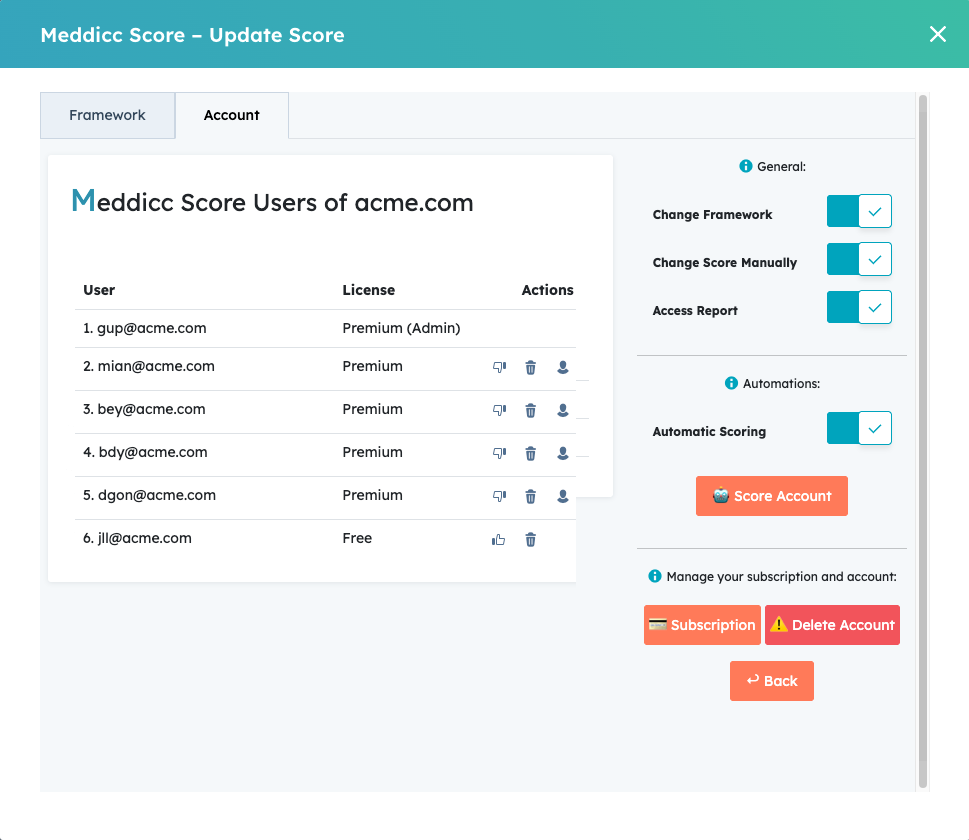
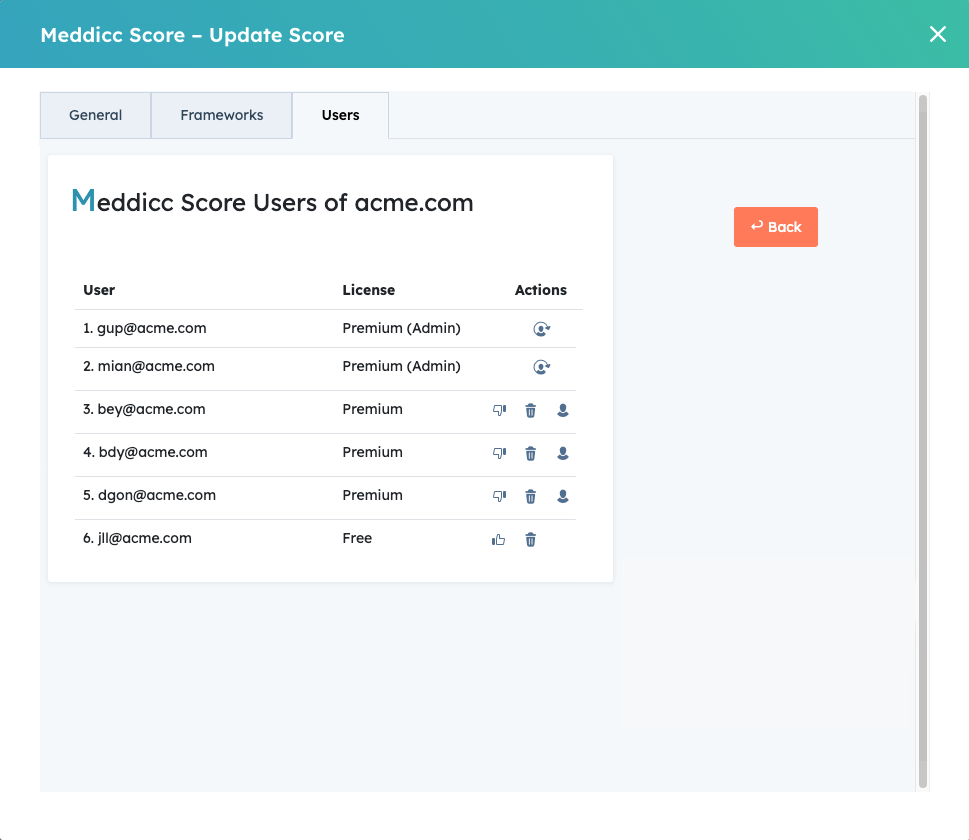
Adding daily AI post

diff --git a/_layouts/landing.html b/_layouts/landing.html
@@ -321,9 +321,10 @@
           <div class="collapse" id="collapseExample2">
             <p class="my-2 mb-lg-0 text-justify">
               Meddicc Score retrieves the last 100 Deal engagements (Emails, Meetings, Calls, Notes...) recorded in HubSpot and uses a AI model for responding to the Framework (e.g., MEDDICC) Questions.
-              <br>These responses pre-fill the form but they can be also manually updated later by the user .
-              <br>The tool uses a high-intelligence LLM model model trained for fast, complex tasks. The prompt and parameters are tuned to provide more focused and deterministic responses.
-              <br>The data you provided is NOT used for training the model. <a href="https://platform.openai.com/docs/models#how-we-use-your-data">Please refer to the AI model provider policies.</a>
+              <br>These responses pre-fill the form but they can be also manually updated later by the user.
+              <br>The tool uses a high-intelligence LLM model model trained for fast, complex tasks. The prompt and parameters are tuned to provide more focused and deterministic responses. 
+              <br>Users can also choose from the best existing models from the top providers such as OpenAI, Google, Anthopic or Meta.
+              <br>The data you provided is NOT used for training the model. <a href="/privacy/#use-of-ai-services">Please refer to the LLM provider privacy policies.</a>
             </p>
           </div>
 
@@ -338,9 +339,10 @@
           </p>
           <div class="collapse" id="collapseExample">
             <p class="my-2 mb-lg-0 text-justify">
-              Meddicc Score uses an AI model for scoring and provide feedback. The model is trained for complex, multi‑step tasks. The model decide the score from a prompt similar to: <u>Evaluate the provided deal information and assign a score between 0 and 100 based on the specified sales qualification framework and the likelihood of successfully closing the deal.</u>
-              <br>The prompt and parameters are tuned to provide more focused and deterministic responses.
-              <br>The data you provided is NOT used for training the model. <a href="https://platform.openai.com/docs/models#how-we-use-your-data">Please refer to the AI model provider policies.</a>
+              Meddicc Score uses an AI model for scoring and provide feedback. The model is trained for complex, multi‑step tasks. The model decide the score from a prompt similar to: <i>Evaluate the provided deal information and assign a score between 0 and 100 based on the specified sales qualification framework and the likelihood of successfully closing the deal.</i>
+              <br>The prompt and parameters are tuned to provide more focused and deterministic responses. 
+              <br>Users can also choose from the best existing models from the top providers such as OpenAI, Google, Anthopic or Meta.
+              <br>The data you provided is NOT used for training the model. <a href="/privacy/#use-of-ai-services">Please refer to the LLM provider privacy policies.</a>
             </p>
           </div>
 
@@ -411,8 +413,25 @@
       </div>
     </div>
   </section>
+    <!-- Basic features section-->
+  <section class="bg-light">
+    <div class="container px-5">
+      <div class="row gx-5 align-items-center justify-content-center justify-content-lg-between">
+        <div class="col-12 col-lg-5">
+          <h2 class="display-4 lh-1 mb-4">🧠 AI Model <strong>agnostic</strong></h2>
+          <p class="lead fw-normal text-muted mb-5 mb-lg-0">
+            Pick the best AI model for your needs from top providers like <strong>OpenAI, Google, Anthropic, or Meta</strong>. Choose based on performance, cost, or data privacy to ensure your sales process is powered by the most suitable AI technology. With <strong>Azure OpenAI</strong> you can also guarantee enterprise-grade security and privacy.
+        </div>
+        <div class="col-sm-8 col-md-6 p-0">
+          <div class="px-5 px-sm-0">
+            <img class="img-fluid border border-3 border-primary rounded rounded-3" src="/assets/images/guide811.png" alt="AI providers for Meddicc Score" />
+          </div>
+        </div>
+      </div>
+    </div>
+  </section>
   <!-- NotesAI CTA aside-->
-  <aside class="bg-light text-center">
+  <aside class="text-center">
     <div class="container px-5">
       <h2 class="display-4 lh-1 mb-4 text-left">📝 Leverage <strong>AI Notetakers</strong></h2>
       <div class="row g-4 pt-5 justify-content-center">

diff --git a/_includes/sidebar_resume.html b/_includes/sidebar_resume.html
@@ -29,17 +29,21 @@
       </li>
       <li><a href="#begin-scoring">6. Begin Scoring</a></li>
       <li><a href="#change-framework">7. Change the Framework</a></li>
+      <li><a href="#settings">8. Settings</a></li>
+      <ul>
+        <li><a href="#settings-general">8.1 General Settings</a></li>
+        <li>
+          <a href="#editing-questions">8.2 Editing the framework questions</a>
+        </li>
+        <li><a href="#manage-account">8.3 Manage users</a></li>
+      </ul>
+      <li><a href="#report-and-export">9. Report and Export</a></li>
+      <li><a href="#upgrade-to-premium">10. Upgrade to Premium</a></li>
       <li>
-        <a href="#editing-questions"
-          >8. Editing the framework questions and default framework</a
+        <a href="#changeplan"
+          >11. Change my subscription plan and billing details</a
         >
       </li>
-      <li><a href="#manage-account">9. Manage your account</a></li>
-      <li><a href="#automations">10. Automations</a></li>
-
-      <li><a href="#report-and-export">11. Report and Export</a></li>
-      <li><a href="#upgrade-to-premium">12. Upgrade to Premium</a></li>
-      <li><a href="#changeplan">13. Change my subscription plan</a></li>
     </ul>
     <li><a href="#uninstalling">Uninstalling Meddicc Score</a></li>
     <li><a href="#troubleshooting">Troubleshooting</a></li>

diff --git a/_posts/2023-01-01-setup-guide.md b/_posts/2023-01-01-setup-guide.md
@@ -117,7 +117,7 @@ Note: Comments to engagements are not gathered since they are not available thro
 <h4 class="pt-6-m mb-3 text-primary" id="change-framework">7. Change the Framework</h4>
 
 <ul>
-  <li>Users can select a different qualification framework for each Deal.</li>
+  <li>Users (if allow by Admins) can select a different qualification framework for each Deal. </li>
   <li>AI will prepopulate the selected framework with relevant information from the Deal.</li>
   <li>However, switching frameworks will not automatically recalculate the score nor save the responses, ensuring that old responses remain accessible.</li>
   <li>Users can return to the previous framework at any time.</li>
@@ -127,64 +127,30 @@ Note: Comments to engagements are not gathered since they are not available thro
 
 <hr>
 
-<h4 class="pt-6-m mb-3 text-primary" id="editing-questions">8. Settings: Editing the framework questions and default framework (only Admin)</h4>
+<h4 class="pt-6-m mb-3 text-primary" id="settings">8. Settings  (only Admin)</h4>
 
 <ul>
-  <li>Only Admins can access this feature. Clicking the Settings buttons, on the Framework tab, allows the user to edit the questions for that framework. The change will apply to all account members (not just the individual user). The modification will not affect the answers or scores previously submitted but will update the questions for all deals where that framework has been used.</li>
+  <li>Only Admins can access this feature. This will get access to customize the experience of Meddicc Score. It is organized in three sections: General settings, Framework (to modify the questions) and Users (to manage user access and licences)</li>
 </ul>
 
 <p class="text-center"><img src="../../assets/images/guide9.png" alt="Editing" class="my-3 border border-3 border-primary rounded rounded-3"></p>
 
-<ul>
-  <li>Turning on the ‘Default Framework’ switch will set the selected framework as the default for the entire account. Every new deal will use this framework by default. The change will not affect the answers or frameworks previously submitted in existing deals. The default framework is initially set to MEDDICC.</li>
-</ul>
+<h5 class="pt-6-m mb-3 text-primary" id="settings-general">8.1 General Settings:</h5>
 
-<p class="text-center"><img src="../../assets/images/guide10.png" alt="Editing" class="my-3 border border-3 border-primary rounded rounded-3"></p>
+<p class="text-center"><img src="../../assets/images/guide81.png" alt="Editing" class="my-3 border border-3 border-primary rounded rounded-3"></p>
 
-<hr>
-
-<h4 class="pt-6-m mb-3 text-primary" id="manage-account">9. Settings: Manage your account and users (only Admin)</h4>
+<p><strong>8.1.1 Users access:</strong></p>
 
 <ul>
-  <li>Clicking on the "Account" tab displays a list of current users who have installed MeddiccScore.</li>
-    <li>In the right column of the list, three actions are available only to the Admin users:
-    <ul>
-      <li><strong>Upgrade/Downgrade:</strong> Change the user's status to Premium or Free. This action either assigns or frees up a license. If no licenses are available, additional licenses can be purchased, or the account can be upgraded to the Team plan.</li>
-      <li><strong>Delete:</strong> Marks the user for deletion. Once deleted, the user will need to reinstall MeddiccScore to regain access.</li>
-      <li><strong>Make Admin:</strong> Assigns administrative privileges to the selected user, granting them access to manage account settings and users.</li>
-    </ul>
-  </li>
+  <li><strong>Change Framework:</strong> Allows non-admin users to switch between different sales qualification frameworks (e.g., MEDDICC, BANT).</li>
+  <li><strong>Change Score Manually:</strong> Enables non-admin users to manually adjust the scores assigned to deals or opportunities.</li>
+  <li><strong>Access Report:</strong> Grants access to non-admin user to a detailed report summarizing deal scoring.</li>
 </ul>
 
-<p class="text-center"><img src="../../assets/images/guide91.png" alt="Editing" class="my-3 border border-3 border-primary rounded rounded-3"></p>
-
-<ul>
-  <li>On the right side, there are different options:
-    <ul>
-          <li><strong>General:</strong></li>
-          <ul>
-            <li><strong>Change Framework:</strong> Allows non-admin users to switch between different sales qualification frameworks (e.g., MEDDICC, BANT).</li>
-            <li><strong>Change Score Manually:</strong> Enables non-admin users to manually adjust the scores assigned to deals or opportunities.</li>
-            <li><strong>Access Report:</strong> Grants access to non-admin user to a detailed report summarizing deal scoring.</li>
-          </ul>
-          <li><strong>Automations (Premium users only):</strong> Automate the scoring process. See the next section for details.</li>
-      <li><strong>Upgrade (Free users only):</strong> Upgrade your account to access premium features.</li>
-      <li><strong>Manage Subscription (Admin, paid users only):</strong> Opens the Customer Portal to update or cancel your subscription. For Corporate subscriptions, contact support by email. <a href="#how-can-cancell-or-manage-my-subcription">More information.</a></li>
-      <li><strong>Delete Account:</strong> Permanently deletes all MeddiccScore data (not your HubSpot account), including deals, users, and account information. This action cannot be undone. Please <a href="#how-can-cancell-or-manage-my-subcription">cancel any paid subscription</a> before deleting your account. Type "Delete Account" to confirm.</li>
-
-    </ul>
-
-  </li>
-</ul>
-
-<hr>
-
-<h4 class="pt-6-m mb-3 text-primary" id="automations">10. Automations (Only Premium Admins)</h4>
+<p class="pt-6-m" id="automations"><strong>8.1.2 Automations:</strong></p>
 
 <ul>
   <li>Automations help you streamline and automate the scoring process. They are only available for Premium users.</li>
-
-  <p class="text-center"><img src="../../assets/images/guide911.png" alt="Editing" class="my-3 w-50 border border-3 border-primary rounded rounded-3"></p>
   <li>
     <strong>Automatic Scoring:</strong> When enabled, this feature sets up a workflow so that every time a new engagement (Note, Meeting, Task, or Call) is logged in HubSpot, the Meddicc Score form is automatically re-filled with the latest information and rescored. Locked fields will not be changed, but unlocked fields and the overall score may be updated. Please note the following limitations due to the HubSpot API:
     <ul>
@@ -199,9 +165,129 @@ Note: Comments to engagements are not gathered since they are not available thro
   </li>
 </ul>
 
+<p class="pt-6-m" id="selectLLM"><strong>8.1.3 AI LLM Model Provider:</strong></p>
+
+<ul>
+  <li>
+    This allows the user to select the Large Language Model (AI) provider used on the app, to pre-fill the forms and score the framework. The data will be shared with that provider, so please take into account their privacy policies, <a href="/privacy/#information-collected-but-not-stored-used-in-the-llm" >see more information here.</a>
+  </li>
+    <li>
+      Every model comes with its own strengths in terms of capabilities, latency/speed, and intelligence. We encourage you to try different options and choose the one that best fits your needs for both quality and performance. If there’s a specific model you’d like us to add, please reach out to our support team.
+    <p class="text-center"><img src="../../assets/images/guide811.png" alt="Editing" class="my-3 w-50 border border-3 border-primary rounded rounded-3"></p>
+  </li>
+  <li>
+    <strong>Available providers:</strong>
+    <ul>
+      <li><strong>OpenAI / GPT 4.1: </strong><a href="https://platform.openai.com/docs/models" target="_blank">more information on model capabilities ↗</a></li>
+      <li><strong>Google / Gemini 2.5:</strong> <a href="https://deepmind.google/models/gemini/" target="_blank">more information on model capabilities ↗</a></li>
+      <li><strong>Meta / Llama 4:</strong> <a href="https://www.llama.com/models/llama-4/" target="_blank">more information on model capabilities ↗</a>. Meta Llama is provided by Groq: <a href="https://groq.com/about-us" target="_blank">more information  ↗</a></li>
+      <li><strong>Anthropic / Sonnet 4:</strong> <a href="https://www.anthropic.com/claude/sonnet" target="_blank">more information on model capabilities ↗</a></li>
+      <li><strong>Azure OpenAI / GPT 4.1:</strong> Microsoft Azure enables the use of OpenAI models (along with others) in a private, secure, enterprise-grade deployment, guaranteeing full data privacy (according to their claims). This allows organizations to leverage the latest OpenAI models without explicitly sharing their information with OpenAI.<a href="https://azure.microsoft.com/en-us/products/ai-foundry/models/openai/" target="_blank">more information on Azure ↗</a>. For this to work, more information is required:
+      <ul>
+        <li>Resource name: The calls to the API will follow this URL https://{resourceName}.openai.azure.com/openai/v1{path}</li>
+        <li>Base URL: Instead of Resource name, the Base URL can be provided. The calls to the API will follow this URL {baseURL}/v1{path}</li>
+        <li>Api Key: Although the key is safely stored and encrypted, It is recommended to provide an exclusive Api Key for Meddicc Score and set limits of usage.</li>
+      </ul>
+          <p class="text-center"><img src="../../assets/images/guide812.png" alt="Editing" class="my-3 w-50 border border-3 border-primary rounded rounded-3"></p>
+      </li>
+    </ul>
+  </li>
+</ul>
+
+<table style="width:100%; border-collapse:collapse; font-family:system-ui, -apple-system, Segoe UI, Roboto, Arial, sans-serif; font-size:14px;">
+  <caption style="caption-side:top; text-align:left; font-weight:600; padding:8px 0;">
+    Model Performance Comparison (General Overview)
+  </caption>
+  <thead>
+    <tr style="background:#f5f6f7;">
+      <th style="text-align:left; padding:10px; border:1px solid #e5e7eb;">Provider / Model</th>
+      <th style="text-align:left; padding:10px; border:1px solid #e5e7eb;">Speed (Latency &amp; Throughput)</th>
+      <th style="text-align:left; padding:10px; border:1px solid #e5e7eb;">Intelligence (Reasoning &amp; Output Quality)</th>
+      <th style="text-align:left; padding:10px; border:1px solid #e5e7eb;">Notes</th>
+    </tr>
+  </thead>
+  <tbody>
+    <tr>
+      <td style="padding:10px; border:1px solid #e5e7eb;"><strong>OpenAI (Direct API, GPT-4/4.1)</strong></td>
+      <td style="padding:10px; border:1px solid #e5e7eb;">⚡⚡ (fast; depends on load)</td>
+      <td style="padding:10px; border:1px solid #e5e7eb;">🧠🧠🧠🧠 (excellent reasoning, creative and reliable)</td>
+      <td style="padding:10px; border:1px solid #e5e7eb;">Strong balance of speed and intelligence; widely adopted.</td>
+    </tr>
+    <tr>
+      <td style="padding:10px; border:1px solid #e5e7eb;"><strong>OpenAI (Azure OpenAI)</strong></td>
+      <td style="padding:10px; border:1px solid #e5e7eb;">⚡⚡⚡ (enterprise-grade stability)</td>
+      <td style="padding:10px; border:1px solid #e5e7eb;">🧠🧠🧠🧠 (same model quality as direct API)</td>
+      <td style="padding:10px; border:1px solid #e5e7eb;">Often steadier latency due to Microsoft infrastructure.</td>
+    </tr>
+    <tr>
+      <td style="padding:10px; border:1px solid #e5e7eb;"><strong>Google Gemini (Pro / Ultra)</strong></td>
+      <td style="padding:10px; border:1px solid #e5e7eb;">⚡ (slower than the rest)</td>
+      <td style="padding:10px; border:1px solid #e5e7eb;">🧠🧠🧠🧠🧠 (very strong reasoning, multimodal)</td>
+      <td style="padding:10px; border:1px solid #e5e7eb;">Excels at complex reasoning &amp; and more verbose.</td>
+    </tr>
+    <tr>
+      <td style="padding:10px; border:1px solid #e5e7eb;"><strong>Anthropic Claude (Sonnet / Opus)</strong></td>
+      <td style="padding:10px; border:1px solid #e5e7eb;">⚡⚡ (good, especially with long contexts)</td>
+      <td style="padding:10px; border:1px solid #e5e7eb;">🧠🧠🧠🧠 (strong reasoning; alignment-focused)</td>
+      <td style="padding:10px; border:1px solid #e5e7eb;">Handles long contexts well; polished, safe outputs.</td>
+    </tr>
+    <tr>
+      <td style="padding:10px; border:1px solid #e5e7eb;"><strong>Meta Llama (via Groq)</strong></td>
+      <td style="padding:10px; border:1px solid #e5e7eb;">⚡⚡⚡⚡ (ultra-low latency on Groq)</td>
+      <td style="padding:10px; border:1px solid #e5e7eb;">🧠🧠🧠 (solid; generally below GPT-4/Gemini for reasoning)</td>
+      <td style="padding:10px; border:1px solid #e5e7eb;">Best when speed is critical; slightly weaker reasoning depth.</td>
+    </tr>
+  </tbody>
+</table>
+
+<p style="margin-top:8px; font-size:12px; color:#6b7280;">
+  <strong>Legend:</strong> ⚡ = relative speed; 🧠 = relative intelligence.<br>
+  <strong>Disclaimer:</strong> This is a generalized, high-level comparison (as of 2025). Actual performance varies by model version, prompt, context length, provider load, and infrastructure.
+</p>
+
+<!-- <h4 class="pt-6-m mb-3 text-primary" id="selectLLM">TODO</h4> -->
+
+<p ><strong>8.1.4 Manage your Subscription and account:</strong></p>
+<ul>
+  <li><strong>Upgrade (Free users only):</strong> Upgrade your account to access premium features.</li>
+  <li><strong>Manage Subscription (Admin, paid users only):</strong> Opens the Customer Portal to update or cancel your subscription. For Corporate subscriptions, contact support by email. <a href="#how-can-cancell-or-manage-my-subcription">More information.</a></li>
+  <li><strong>Delete Account:</strong> Permanently deletes all MeddiccScore data (not your HubSpot account), including deals, users, and account information. This action cannot be undone. Please <a href="#how-can-cancell-or-manage-my-subcription">cancel any paid subscription</a> before deleting your account. Type "Delete Account" to confirm.</li>
+</ul>
+
+<!-- <h4 class="pt-6-m mb-3 text-primary" id="automations">10. Automations (Only Premium Admins)</h4> -->
+
 <hr>
 
-<h4 class="pt-6-m mb-3 text-primary" id="report-and-export">11. Report and Export</h4>
+<h5 class="pt-6-m mb-3 text-primary mt-2" id="editing-questions">8.2 Frameworks: Editing the framework questions and default framework (only Admin)</h5>
+
+<ul>
+  <li>Only Admins can access this feature. Clicking on the Framework tab, allows the user to edit the questions for that framework. The change will apply to all account members (not just the individual user). The modification will not affect the answers or scores previously submitted but will update the questions for all deals where that framework has been used.</li>
+  <li>Turning on the ‘Default Framework’ switch will set the selected framework as the default for the entire account. Every new deal will use this framework by default. The change will not affect the answers or frameworks previously submitted in existing deals. The default framework is initially set to MEDDICC.</li>
+</ul>
+
+<p class="text-center"><img src="../../assets/images/guide10.png" alt="Editing" class="my-3 border border-3 border-primary rounded rounded-3"></p>
+
+<hr>
+
+<h5 class="pt-6-m mb-3 text-primary mt-2" id="manage-account">8.3. Users: Manage your users (only Admin)</h5>
+
+<ul>
+  <li>Clicking on the "Users" tab displays a list of current users who have installed MeddiccScore.</li>
+    <li>In the right column of the list, three actions are available only to the Admin users:
+    <ul>
+      <li><strong>Upgrade/Downgrade:</strong> Change the user's status to Premium or Free. This action either assigns or frees up a license. If no licenses are available, additional licenses can be purchased, or the account can be upgraded to the Team plan.</li>
+      <li><strong>Delete:</strong> Marks the user for deletion. Once deleted, the user will need to reinstall MeddiccScore to regain access.</li>
+      <li><strong>Make Admin:</strong> Assigns administrative privileges to the selected user, granting them access to manage account settings and users. There can be more than one Admin, but at least one.</li>
+      <li><strong>Remove Admin:</strong> Remove administrative privileges to the selected user. There has to be at least one Admin user.</li>
+    </ul>
+  </li>
+</ul>
+
+<p class="text-center"><img src="../../assets/images/guide91.png" alt="Editing" class="my-3 border border-3 border-primary rounded rounded-3"></p>
+
+<hr>
+
+<h4 class="pt-6-m mb-3 text-primary" id="report-and-export">9. Report and Export</h4>
 
 <ul>
   <li>Clicking on Report, a full account pipeline summary can be found.</li>
@@ -220,18 +306,20 @@ Note: Comments to engagements are not gathered since they are not available thro
 
 <hr>
 
-<h4 class="pt-6-m mb-3 text-primary" id="upgrade-to-premium">12. Upgrade to Premium</h4>
+<h4 class="pt-6-m mb-3 text-primary" id="upgrade-to-premium">10. Upgrade to Premium</h4>
 
 <p>If you like Meddicc Score and want to use it for more than 5 deals, you can upgrade easily from the own app. Click on “Upgrade Now” and you will go to a checkout powered by Stripe.</p>
 
 <p class="text-center"><img src="../../assets/images/guide5.png" alt="Ugrade" class="my-3 border border-3 border-primary rounded rounded-3"></p>
 <hr>
 
-<h4 class="pt-6-m mb-3 text-primary" id="changeplan">13. Change the subscription plan</h4>
+<h4 class="pt-6-m mb-3 text-primary" id="changeplan">11. Change the subscription plan or billing details.</h4>
 
 <p>If you're already enjoying the premium benefits of Meddicc Score but want to upgrade to a Team plan or switch to a yearly subscription to unlock significant savings, you can easily make the change through the Customer Portal. Take advantage of these exclusive discounts today and maximize your Meddicc Score experience!</p>
 
 <p class="text-center"><img src="../../assets/images/trouble5.png" alt="troubleshooting" class="mt-5 w-50 border border-3 border-primary rounded rounded-3"></p>
+
+<p>You can also change your billing details by clicking on "Update Subscription".</p>
 
 <p class="text-center"><img src="../../assets/images/guide51.png" alt="Ugrade" class="my-3 border border-3 border-primary rounded rounded-3"></p>
 

diff --git a/_pages/privacy.md b/_pages/privacy.md
@@ -67,22 +67,48 @@ Financial information, such as data related to your payment method (e.g. valid c
   - Tasks
   - Calls
   - Meetings
+  - Deal information
 
-Our app integrates services powered by OpenAI's ChatGPT, an advanced language model that facilitates dynamic interactions and content generation. By using our app, you acknowledge and agree to the following:
+## Use of AI Services
 
-1. **Nature of ChatGPT**: ChatGPT is an AI-based service designed to assist users by generating responses, suggestions, and content based on input provided by the user. While we strive to ensure the accuracy and relevance of these responses, it is important to understand that ChatGPT-generated outputs may not always be correct, complete, or applicable to your specific situation.
+Our app integrates services powered by multiple third-party artificial intelligence (AI) providers, including **OpenAI (via the OpenAI API or Azure OpenAI Service), Google Gemini, Anthropic Claude, and Meta Llama (via Groq)**. These services enable dynamic interactions and content generation to assist users in analyzing, qualifying, and managing deals. By using our app, you acknowledge and agree to the following:
 
-2. **Data Handling**: The queries and information submitted to ChatGPT may be processed and stored by OpenAI in accordance with their privacy policy. We do not have direct control over how OpenAI manages the data you provide through these interactions, and you are encouraged to review [OpenAI’s Privacy Policy](https://openai.com/policies/privacy-policy) for more details on their data handling practices.
+1. **Nature of AI Models**  
+   The AI models (e.g., OpenAI’s GPT, Google’s Gemini, Anthropic’s Claude, and Meta’s Llama via Groq) are advanced language models designed to generate responses, suggestions, and content based on user input. While these models strive to provide accurate and relevant outputs, you understand that responses may occasionally be incomplete, inaccurate, or unsuitable for your specific situation.
 
-3. **User Responsibility**: You are responsible for how you use the content provided by ChatGPT. The outputs generated by ChatGPT are intended for informational purposes only and should not be considered professional, legal, financial, or medical advice. Always verify critical information with qualified experts.
+2. **Choice of Provider**  
+   You may select which AI provider is used when interacting with our app. Each provider operates independently and applies its own privacy and data-handling practices. By choosing a provider, you consent to the processing of your data according to that provider’s terms.
 
-4. **Limitations and Liability**: While we integrate OpenAI's technology to enhance the user experience, we do not guarantee the performance, availability, or suitability of ChatGPT for any particular purpose. Our app is not liable for any consequences arising from the use of ChatGPT-generated content, including any inaccuracies, omissions, or actions taken based on the information provided.
+3. **Data Handling**
 
-5. **Updates and Changes**: As OpenAI continues to develop and improve its services, updates or changes may be made to the integration of ChatGPT within our app. We reserve the right to modify or discontinue the use of ChatGPT in our app without prior notice.
+   - **OpenAI (Direct API Access)**: Queries and information submitted via the OpenAI API are processed directly by OpenAI. According to their policy (as of March 1, 2023), data sent to the API is **not used to train or improve their models**. Details: [OpenAI Privacy Policy](https://openai.com/policies/privacy-policy) and [Data controls in the OpenAI platform](https://platform.openai.com/docs/models#how-we-use-your-data).
+   - **OpenAI (Azure OpenAI Service)**: When using OpenAI through Microsoft Azure, your data is handled under Microsoft’s enterprise-grade privacy and compliance framework. Microsoft states that prompts and completions are not used to train OpenAI or Microsoft models. Details: [Microsoft Privacy Statement](https://privacy.microsoft.com/) and [Responsible AI at Microsoft](https://www.microsoft.com/en-us/ai/responsible-ai).
+   - **Google Gemini**: Queries and inputs may be processed and stored by Google in accordance with [Google’s Privacy Policy](https://policies.google.com/privacy) and [How Gemini for Google Cloud uses your data](https://cloud.google.com/gemini/docs/discover/data-governance).
+   - **Anthropic Claude**: Interactions are handled by Anthropic as described in [Anthropic’s Privacy Policy](https://www.anthropic.com/legal/privacy) and [Is my data used for model training?](https://privacy.anthropic.com/en/articles/7996868-is-my-data-used-for-model-training).
+   - **Meta Llama via Groq**: Data processed through Groq’s infrastructure is subject to [Groq’s Privacy Policy](https://groq.com/privacy) [FAQs](https://trust.groq.com/faq) and, where applicable, [Meta’s Privacy Policy](https://www.metaplatforms.com/legal/privacy).
 
-6. **Use of your data for training models**: According to OpenAI's current policy, As of March 1, 2023, data sent to the OpenAI API is not used to train or improve OpenAI models:
+   ⚠ **Important**: We do not control how these third-party providers handle, store, or use your data. You are encouraged to review their respective privacy policies before choosing a provider.
 
-https://platform.openai.com/docs/models#how-we-use-your-data
+4. **User Responsibility**  
+   You are solely responsible for how you use the content generated by these AI services. Outputs are intended for **informational purposes only** and should not be considered professional, legal, financial, or medical advice. Critical information should always be independently verified with qualified experts.
+
+5. **Limitations and Liability**  
+   We provide access to these AI models to enhance user experience but do not guarantee their performance, availability, or fitness for a specific purpose. We are not liable for any consequences arising from the use of AI-generated content, including errors, omissions, or actions taken based on the information provided.
+
+6. **Updates and Changes**  
+   AI technologies evolve rapidly. We may add, modify, or discontinue integrations with specific AI providers at any time, without prior notice. This section of our privacy policy will be updated accordingly.
+
+---
+
+### Provider Comparison Table
+
+| Provider                | Data Destination                 | Used for Training?     | Privacy Policy Link                                                                                                 |
+| ----------------------- | -------------------------------- | ---------------------- | ------------------------------------------------------------------------------------------------------------------- |
+| **OpenAI (Direct API)** | OpenAI servers                   | No (as of Mar 1, 2023) | [OpenAI Privacy Policy](https://openai.com/policies/privacy-policy)                                                 |
+| **OpenAI (Azure)**      | Microsoft Azure infrastructure   | No (per Microsoft)     | [Microsoft Privacy Statement](https://privacy.microsoft.com/)                                                       |
+| **Google Gemini**       | Google servers                   | No (per Google)        | [Google Privacy Policy](https://policies.google.com/privacy)                                                        |
+| **Anthropic Claude**    | Anthropic servers                | No (per Anthropic)     | [Anthropic Privacy Policy](https://www.anthropic.com/legal/privacy)                                                 |
+| **Meta Llama (Groq)**   | Groq infrastructure (Meta model) | No (per Groq/Meta)     | [Groq Privacy Policy](https://groq.com/privacy), [Meta Privacy Policy](https://www.metaplatforms.com/legal/privacy) |
 
 ## Use of Your Information
 
